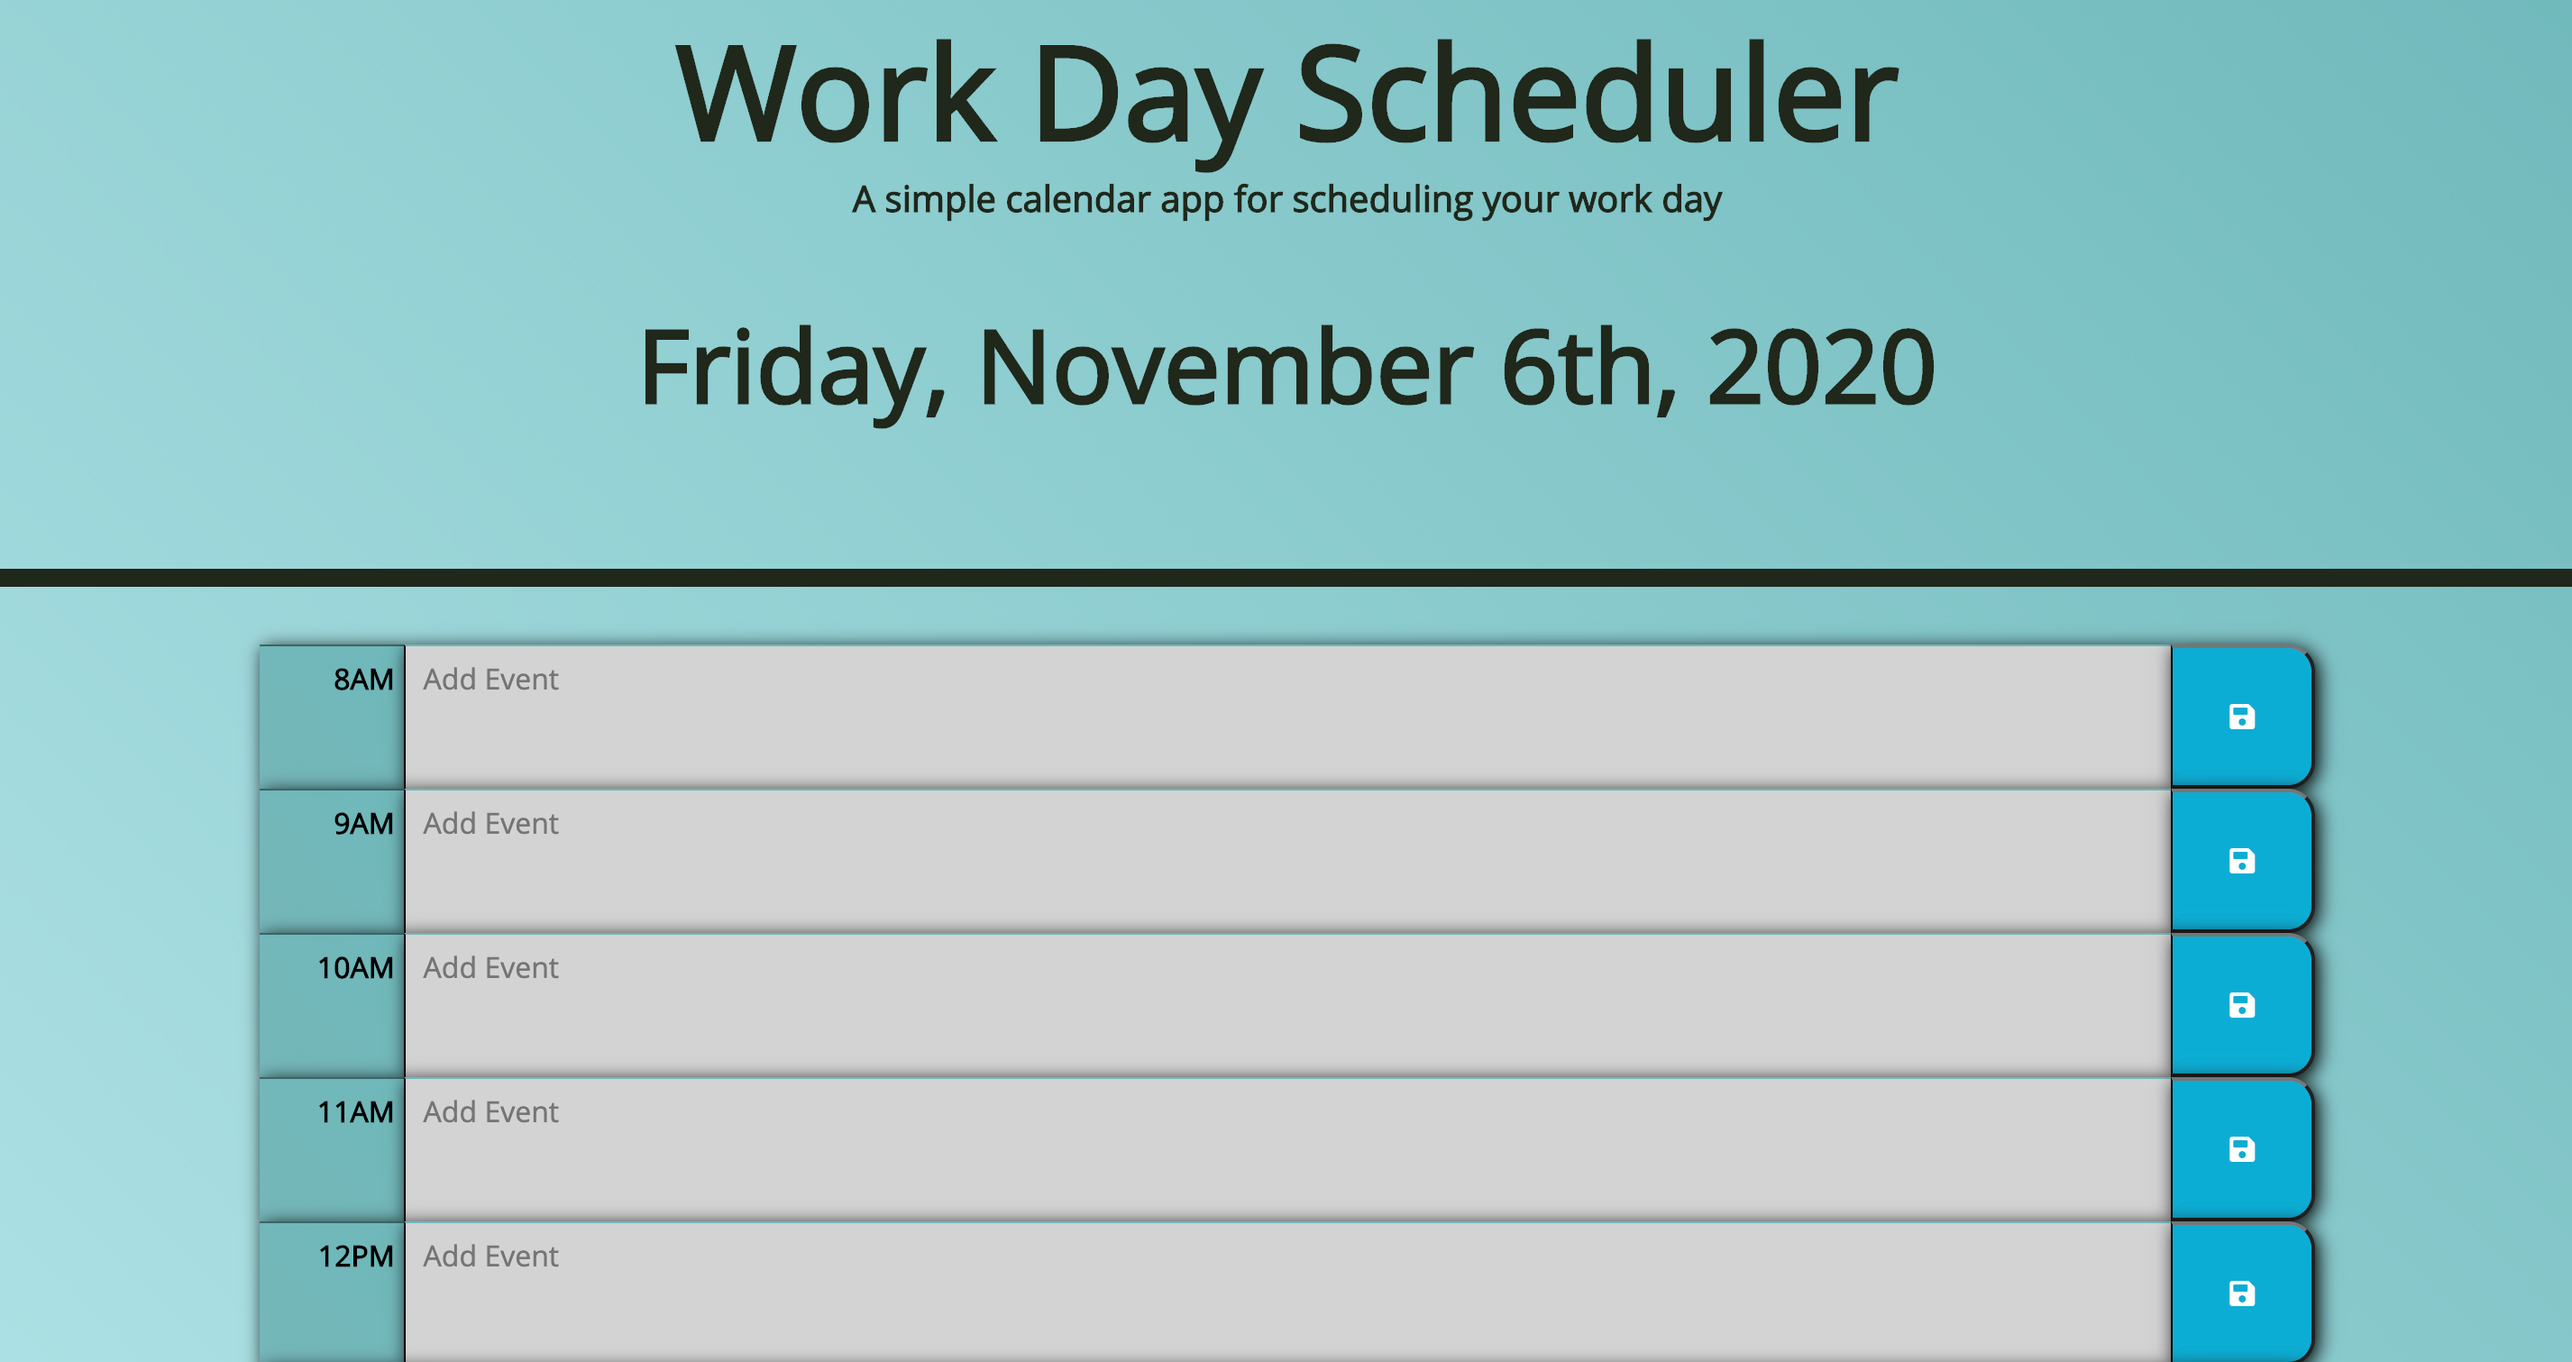
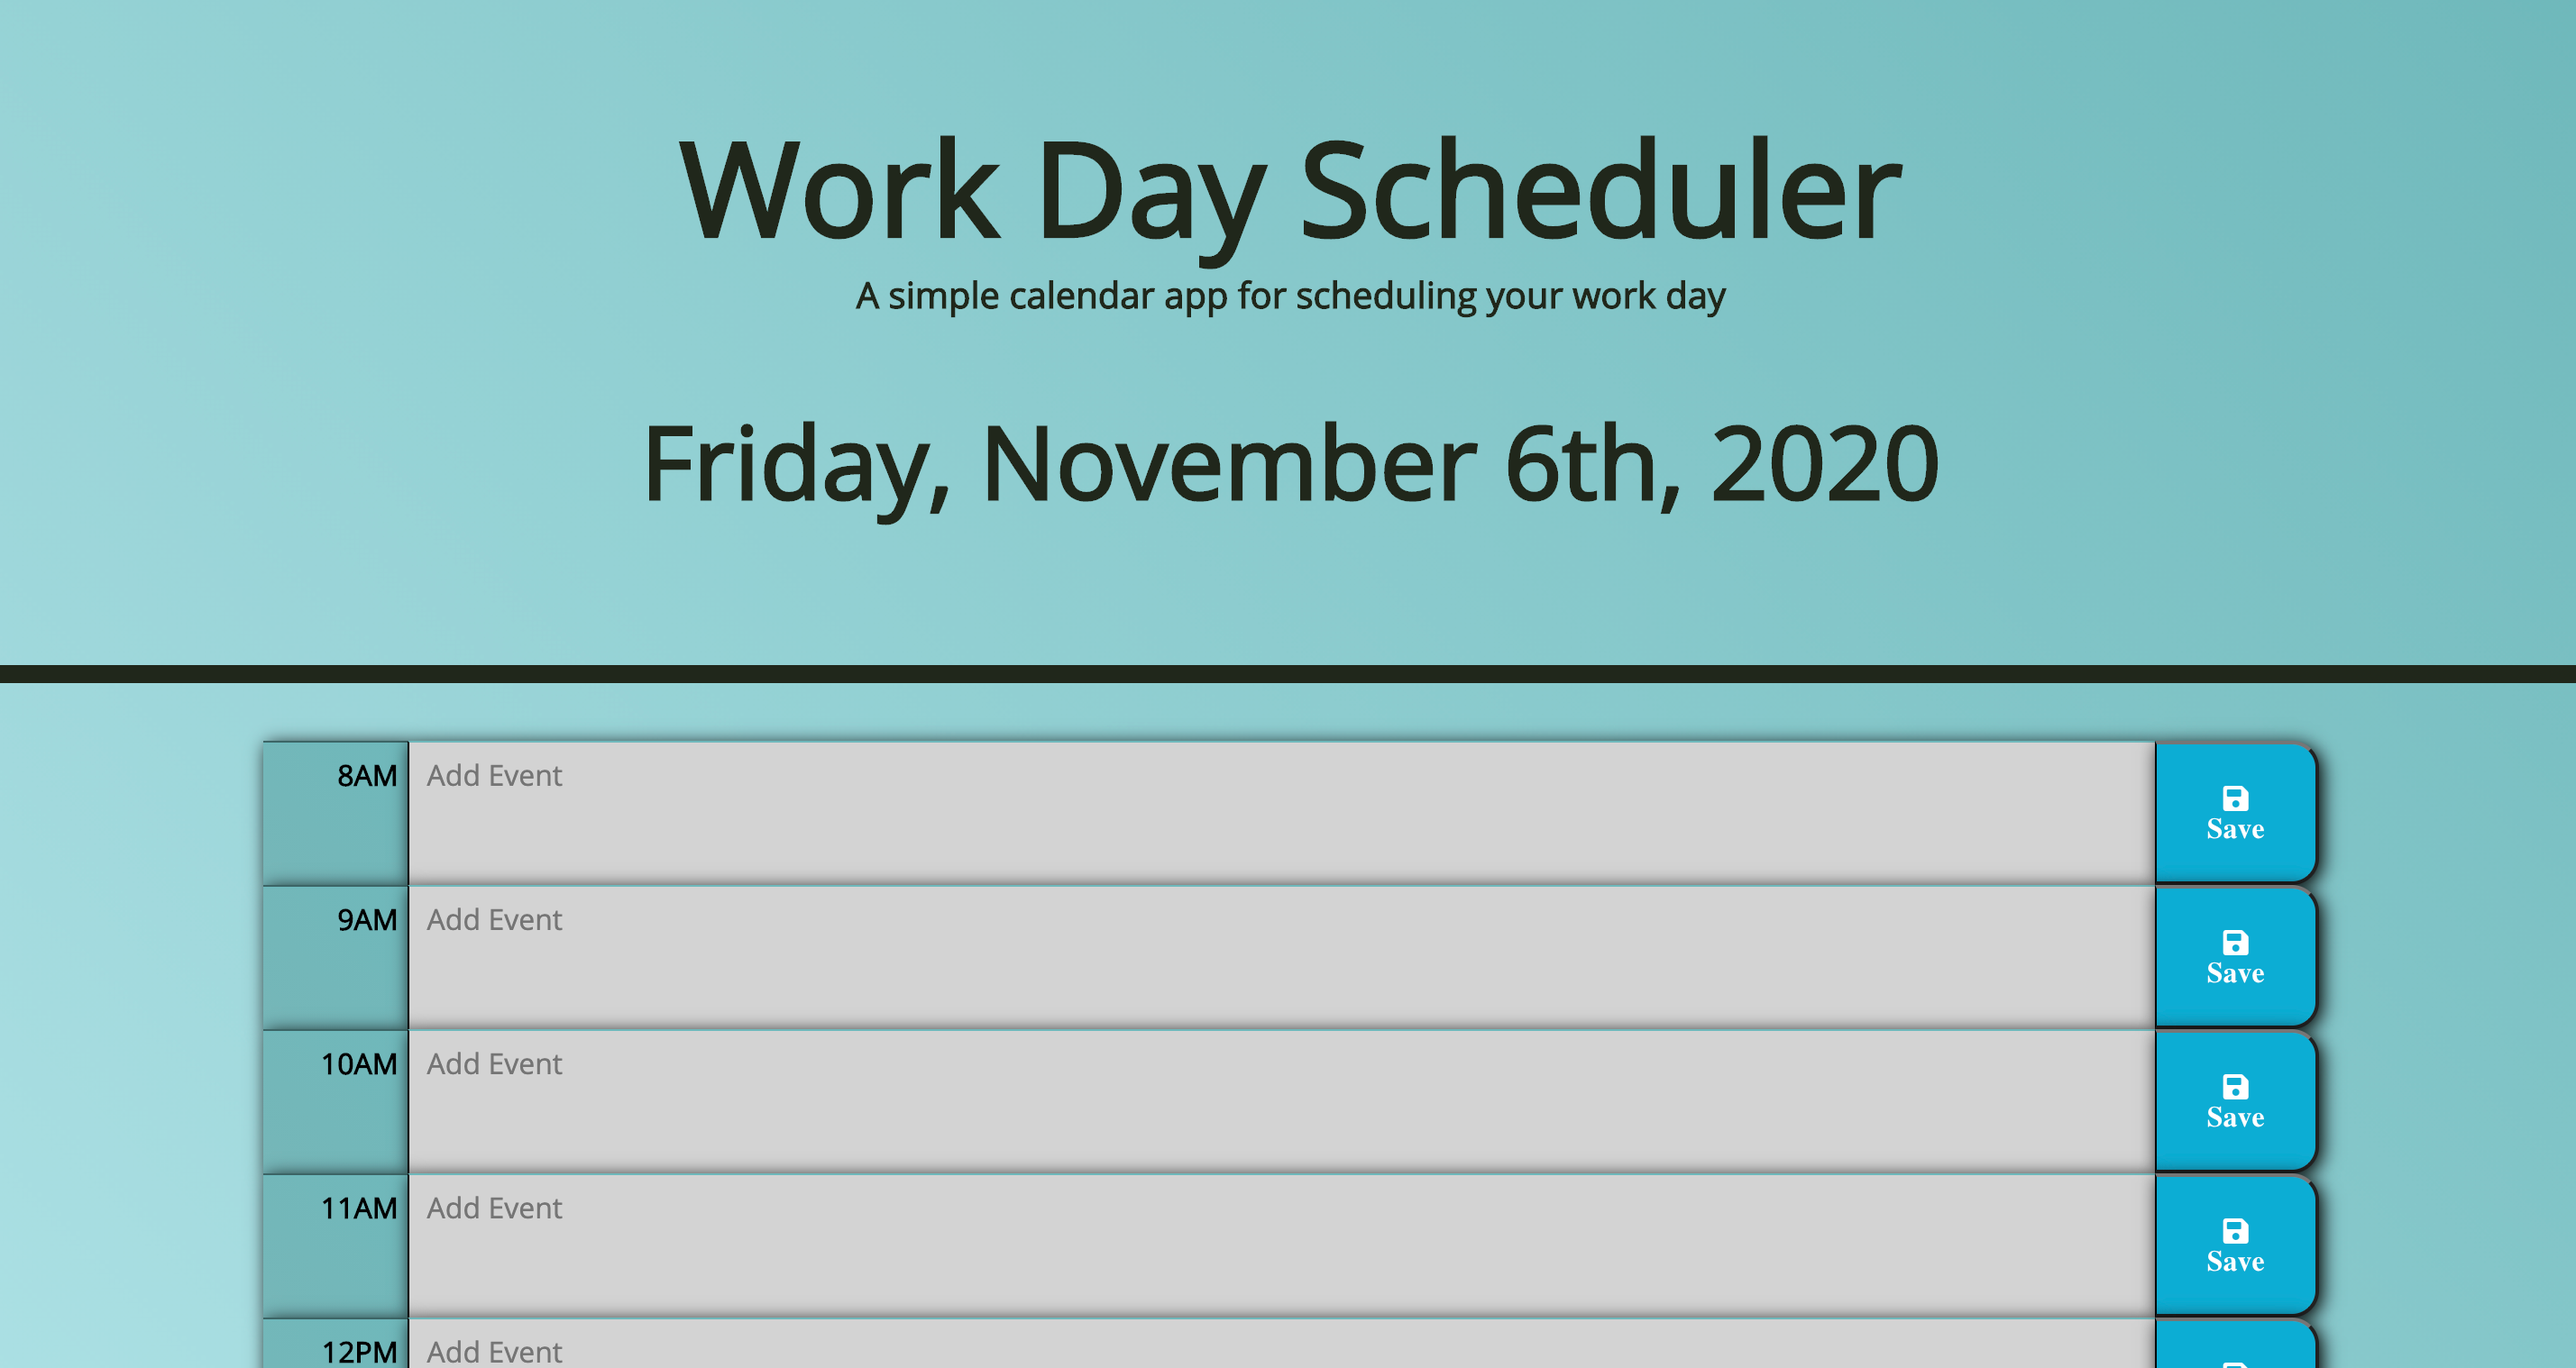
Added the word 'save' to my save buttons and adjusted some spacing

Changed region(s): [[0.0, 0.4666, 1.0, 1.0], [0.2496, 0.0311, 0.7487, 0.3733], [0.0, 0.4044, 1.0, 0.4355]]

diff --git a/index.html b/index.html
@@ -11,7 +11,6 @@
     <link rel="apple-touch-icon" sizes="180x180" href="assets/favicon/apple-touch-icon.png">
     <link rel="icon" type="image/png" sizes="32x32" href="assets/favicon/favicon-32x32.png">
     <link rel="icon" type="image/png" sizes="16x16" href="assets/favicon/favicon-16x16.png">
-    <link rel="manifest" href="assets/favicon/site.webmanifest">
     <title>Plan Your Day!</title>
   </head>
 

diff --git a/assets/style.css b/assets/style.css
@@ -13,7 +13,7 @@ textarea{
   border-left: 1px solid black;
   border-top: 1px solid #6eb8bb;
   padding: 10px;
-  width: 86%;
+  width: 85%;
   box-shadow: 2px 2px 10px #000000;
 }
 
@@ -83,8 +83,9 @@ textarea{
   border-bottom-right-radius: 15px;
   background-color: #06AED5;
   color: white;
-  width: 7%;
+  width: 8%;
   box-shadow: 2px 2px 10px #000000;
+  text-align: center;
 }
 
 .saveBtn:hover {

diff --git a/assets/script.js b/assets/script.js
@@ -56,7 +56,8 @@ $("document").ready(function() {
             textarea.addClass("future");
         };
         var save = $("<button>");
-        save.addClass("saveBtn fa fa-save ");
+        save.addClass("saveBtn fa fa-save");
+        save.text("\nSave");
 
         // This gives each button a value that matches with its corresponding textarea's id
         save.attr("value", time.format('h'));

diff --git a/README.md b/README.md
@@ -16,7 +16,7 @@ https://dj620.github.io/plan-your-day-efficiently/
 
 ![Planner screenshot](assets/screenshot.png)
 
-When you get to the page, you will see the current date displayed at the top, and a block to add scheduled events for each hour of the workday. Using Moments.js, the planner will be color-coded based on if the hour of the block has past, is current, or is in the future.
+When you get to the page, you will see the current date displayed at the top, and a block to add scheduled events for each hour of the workday. To add an event, simply click on the box in the appropriate hour block, enter your event, and click the save button. Using Moments.js, the planner will be color-coded based on if the hour of the block has past, is current, or is in the future.
 
 ## Credits
 
